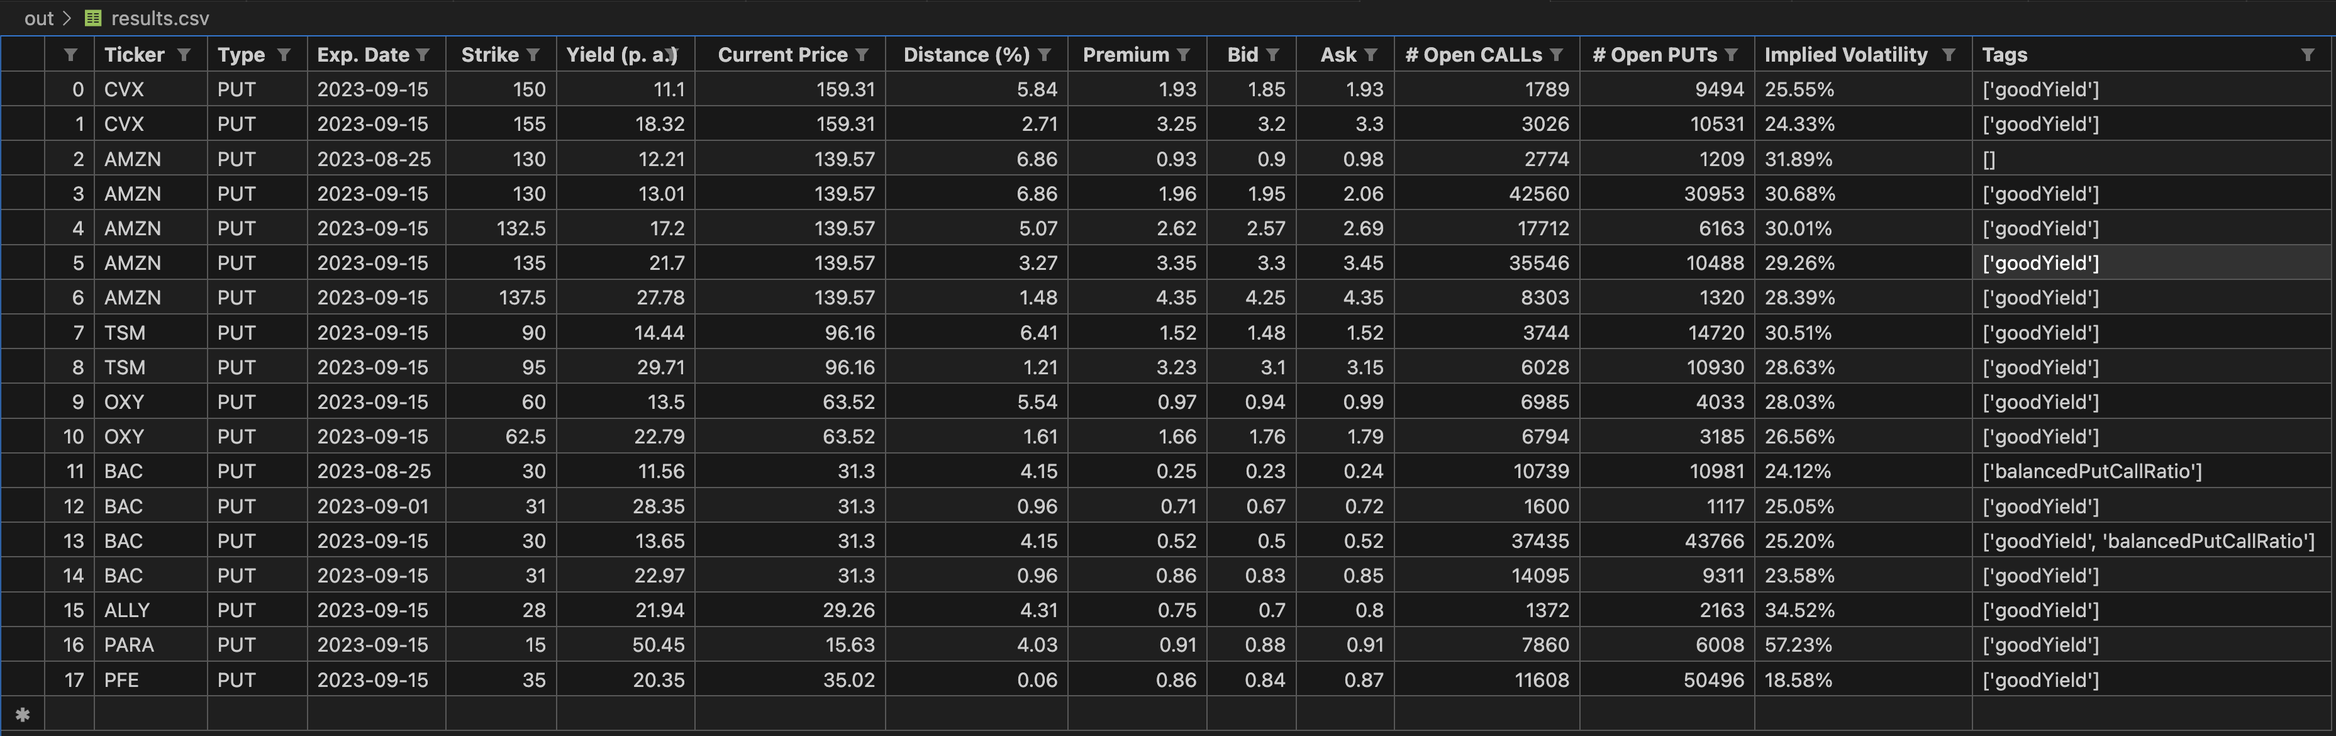
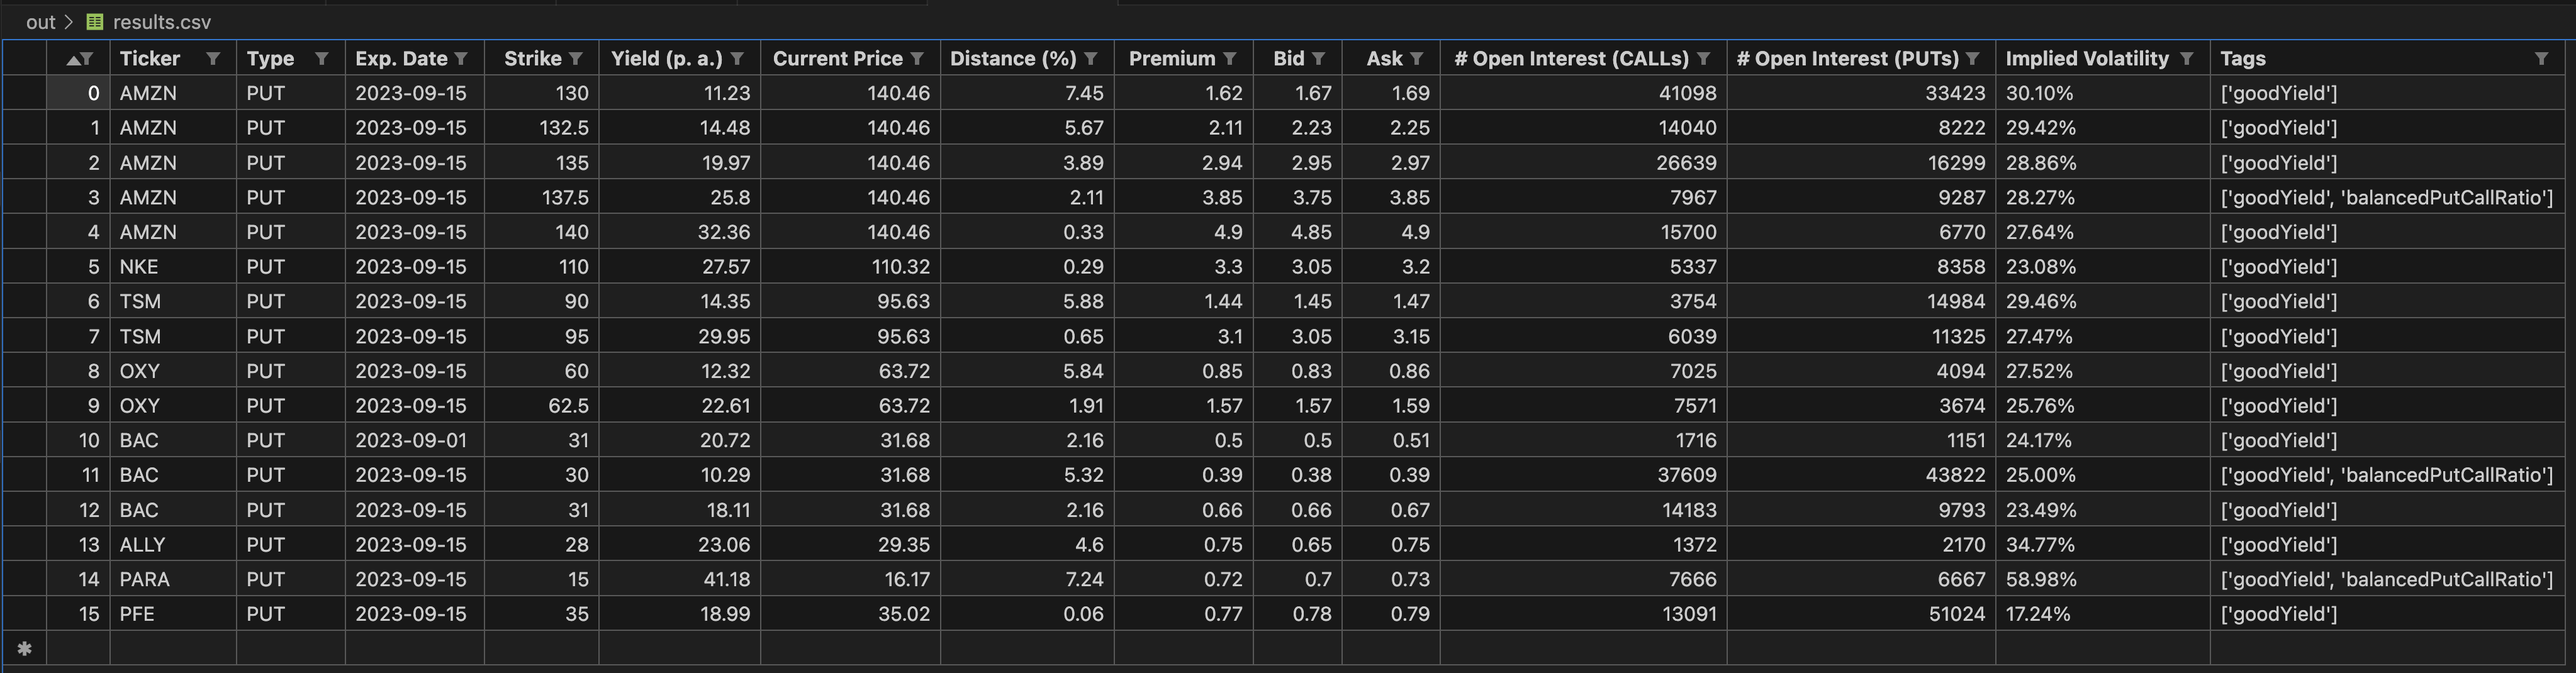
chore: rename Open Interest cols (to better reflect the given info)

Changed region(s): [[0.0, 0.0, 1.0, 1.0], [0.9682, 0.9252, 0.9995, 0.9561]]

diff --git a/src/run.py b/src/run.py
@@ -32,9 +32,9 @@ if __name__ == '__main__':
     parser.add_argument('-mode', dest='mode', help='PUT (default) or CALL', type=Analyzer.Types, default=Analyzer.Types.PUT)
     parser.add_argument('-ms', dest='max_strike', help='filter for maximum acceptable strike (Default = 60)',
                         type=float, default=60)
-    parser.add_argument('-mp', dest='min_puts', help='filter for minium available puts (Default = 1000)',
+    parser.add_argument('-mp', dest='min_puts', help='filter for minium available interest in PUTs (Default = 1000)',
                         type=int, default=1000)
-    parser.add_argument('-mc', dest='min_calls', help='filter for minium available calls (Default = 1000)',
+    parser.add_argument('-mc', dest='min_calls', help='filter for minium available interest in CALLs (Default = 1000)',
                         type=int, default=1000)
     parser.add_argument('-my', dest='min_yield', help='filter for minimum acceptable yield (Default = 10)',
                         type=float, default=10)

diff --git a/src/analyzer.py b/src/analyzer.py
@@ -25,8 +25,8 @@ class OptionsAnalyzer:
         BID = 'Bid'
         ASK = 'Ask'
         OPEN_INTEREST = 'Open Interest'
-        CALLS_CNT = '# Open CALLs'
-        PUTS_CNT = '# Open PUTs'
+        CALLS_CNT = '# Open Interest (CALLs)'
+        PUTS_CNT = '# Open Interest (PUTs)'
         IMPLIED_VOLATILITY = 'Implied Volatility'
         TAGS = 'Tags'
         # additional fields (provided by yahoo_fin)

diff --git a/README.md b/README.md
@@ -49,8 +49,8 @@ options:
   -i INPUT_FILE         an input file defining the settings to scan for options
   -mode MODE            PUT (default) or CALL
   -ms MAX_STRIKE        filter for maximum acceptable strike (Default = 60)
-  -mp MIN_PUTS          filter for minium available puts (Default = 1000)
-  -mc MIN_CALLS         filter for minium available calls (Default = 1000)
+  -mp MIN_PUTS          filter for minium available interest in PUTs (Default = 1000)
+  -mc MIN_CALLS         filter for minium available interest in CALLs (Default = 1000)
   -my MIN_YIELD         filter for minimum acceptable yield (Default = 10)
   -mn MONEYNESS         filter for the moneyness: OTM (default), ITM or ATM
   -swo START_WEEK_OFFSET
